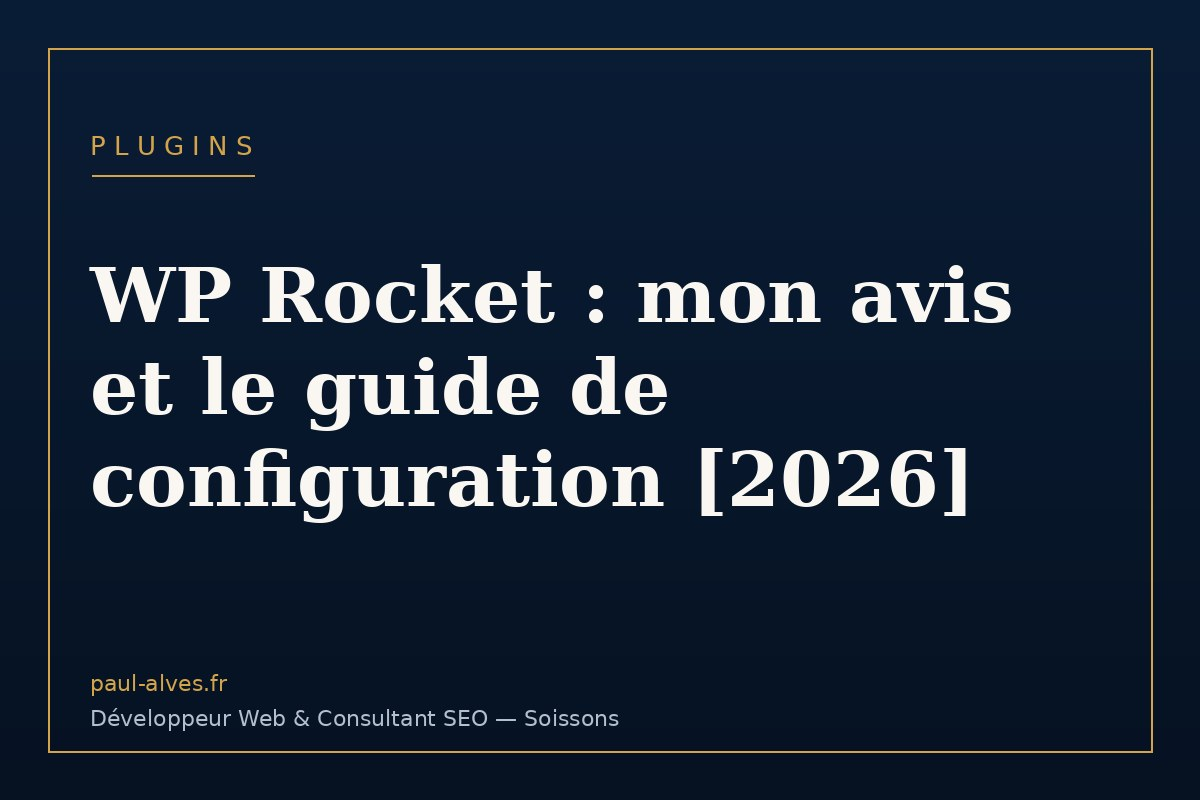
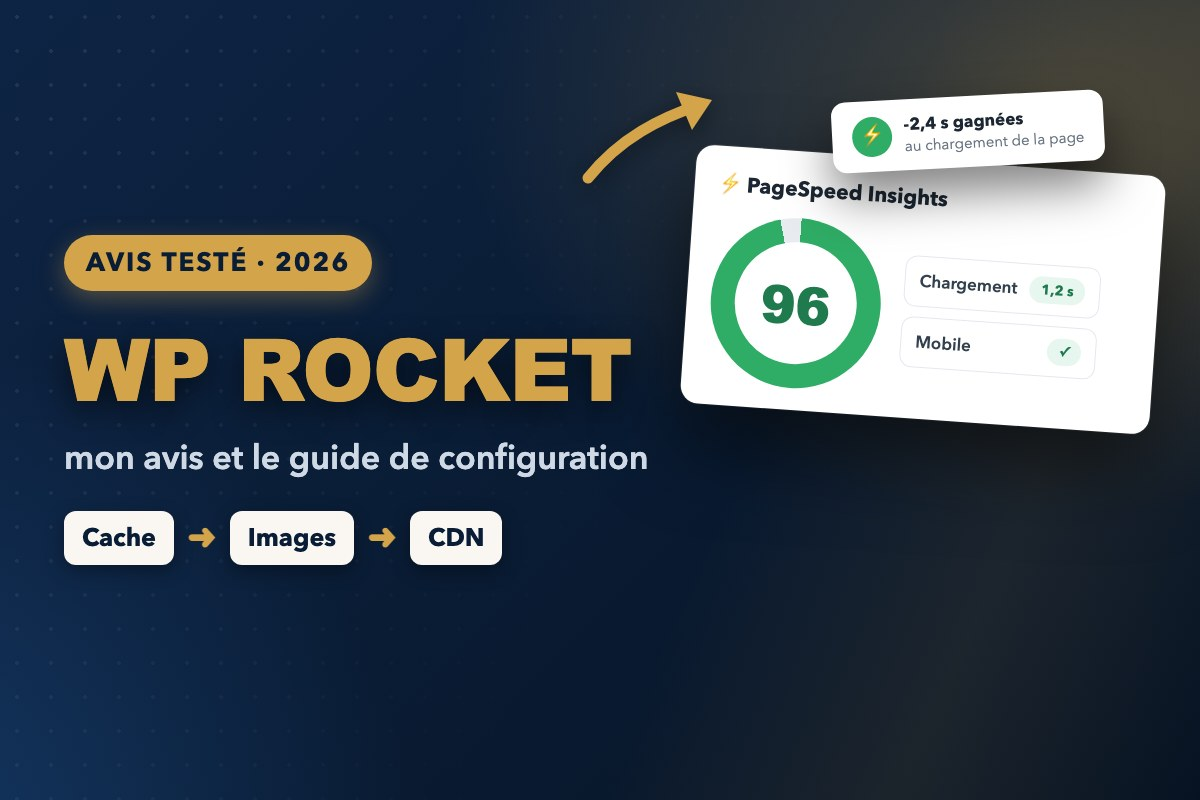
Vignettes : preset vitesse pour les plugins de cache + refonte de la couverture WP Rocket
Le run cloud du 15/08 n'avait pas de Chrome et est tombé sur la couverture
charte. Régénération en local de la vignette de wp-rocket-avis, et deux
corrections de la déduction automatique :
- « cache / wp rocket / litespeed / web vitals » → preset « speed » (visuel
  PageSpeed, étapes Cache/Images/CDN) plutôt que le générique « site » ;
- « avis / test / vaut-il » → badge « AVIS TESTÉ ».

diff --git a/automation/generate-cover.py b/automation/generate-cover.py
@@ -73,6 +73,9 @@ PRESET_KEYWORDS = [
     (r"sécuris|securis", "shield"),
     (r"sauvegard", "backup"),
     (r"vitesse|rapide|accélér|acceler|performance", "speed"),
+    # Avant `plugin` : un plugin de cache relève du visuel « vitesse », pas du
+    # visuel générique « plugins » (cas WP Rocket, LiteSpeed, W3 Total Cache…).
+    (r"cache|wp rocket|litespeed|w3 total|web vitals|lazy", "speed"),
     (r"prix|coûte|coute|budget|tarif", "budget"),
     (r"migr", "migrate"),
     (r"refonte", "revamp"),
@@ -88,6 +91,7 @@ PRESET_KEYWORDS = [
 BADGE_KEYWORDS = [
     (r"pirat", "URGENCE"),
     (r"comparatif|meilleur|classement", "COMPARATIF"),
+    (r"\bavis\b|\btest\b|vaut-il", "AVIS TESTÉ"),
     (r"sécuris|securis", "SÉCURITÉ"),
     (r"vitesse|accélér|acceler|performance", "PERFORMANCE"),
     (r"prix|coûte|coute|budget|tarif", "BUDGET"),
